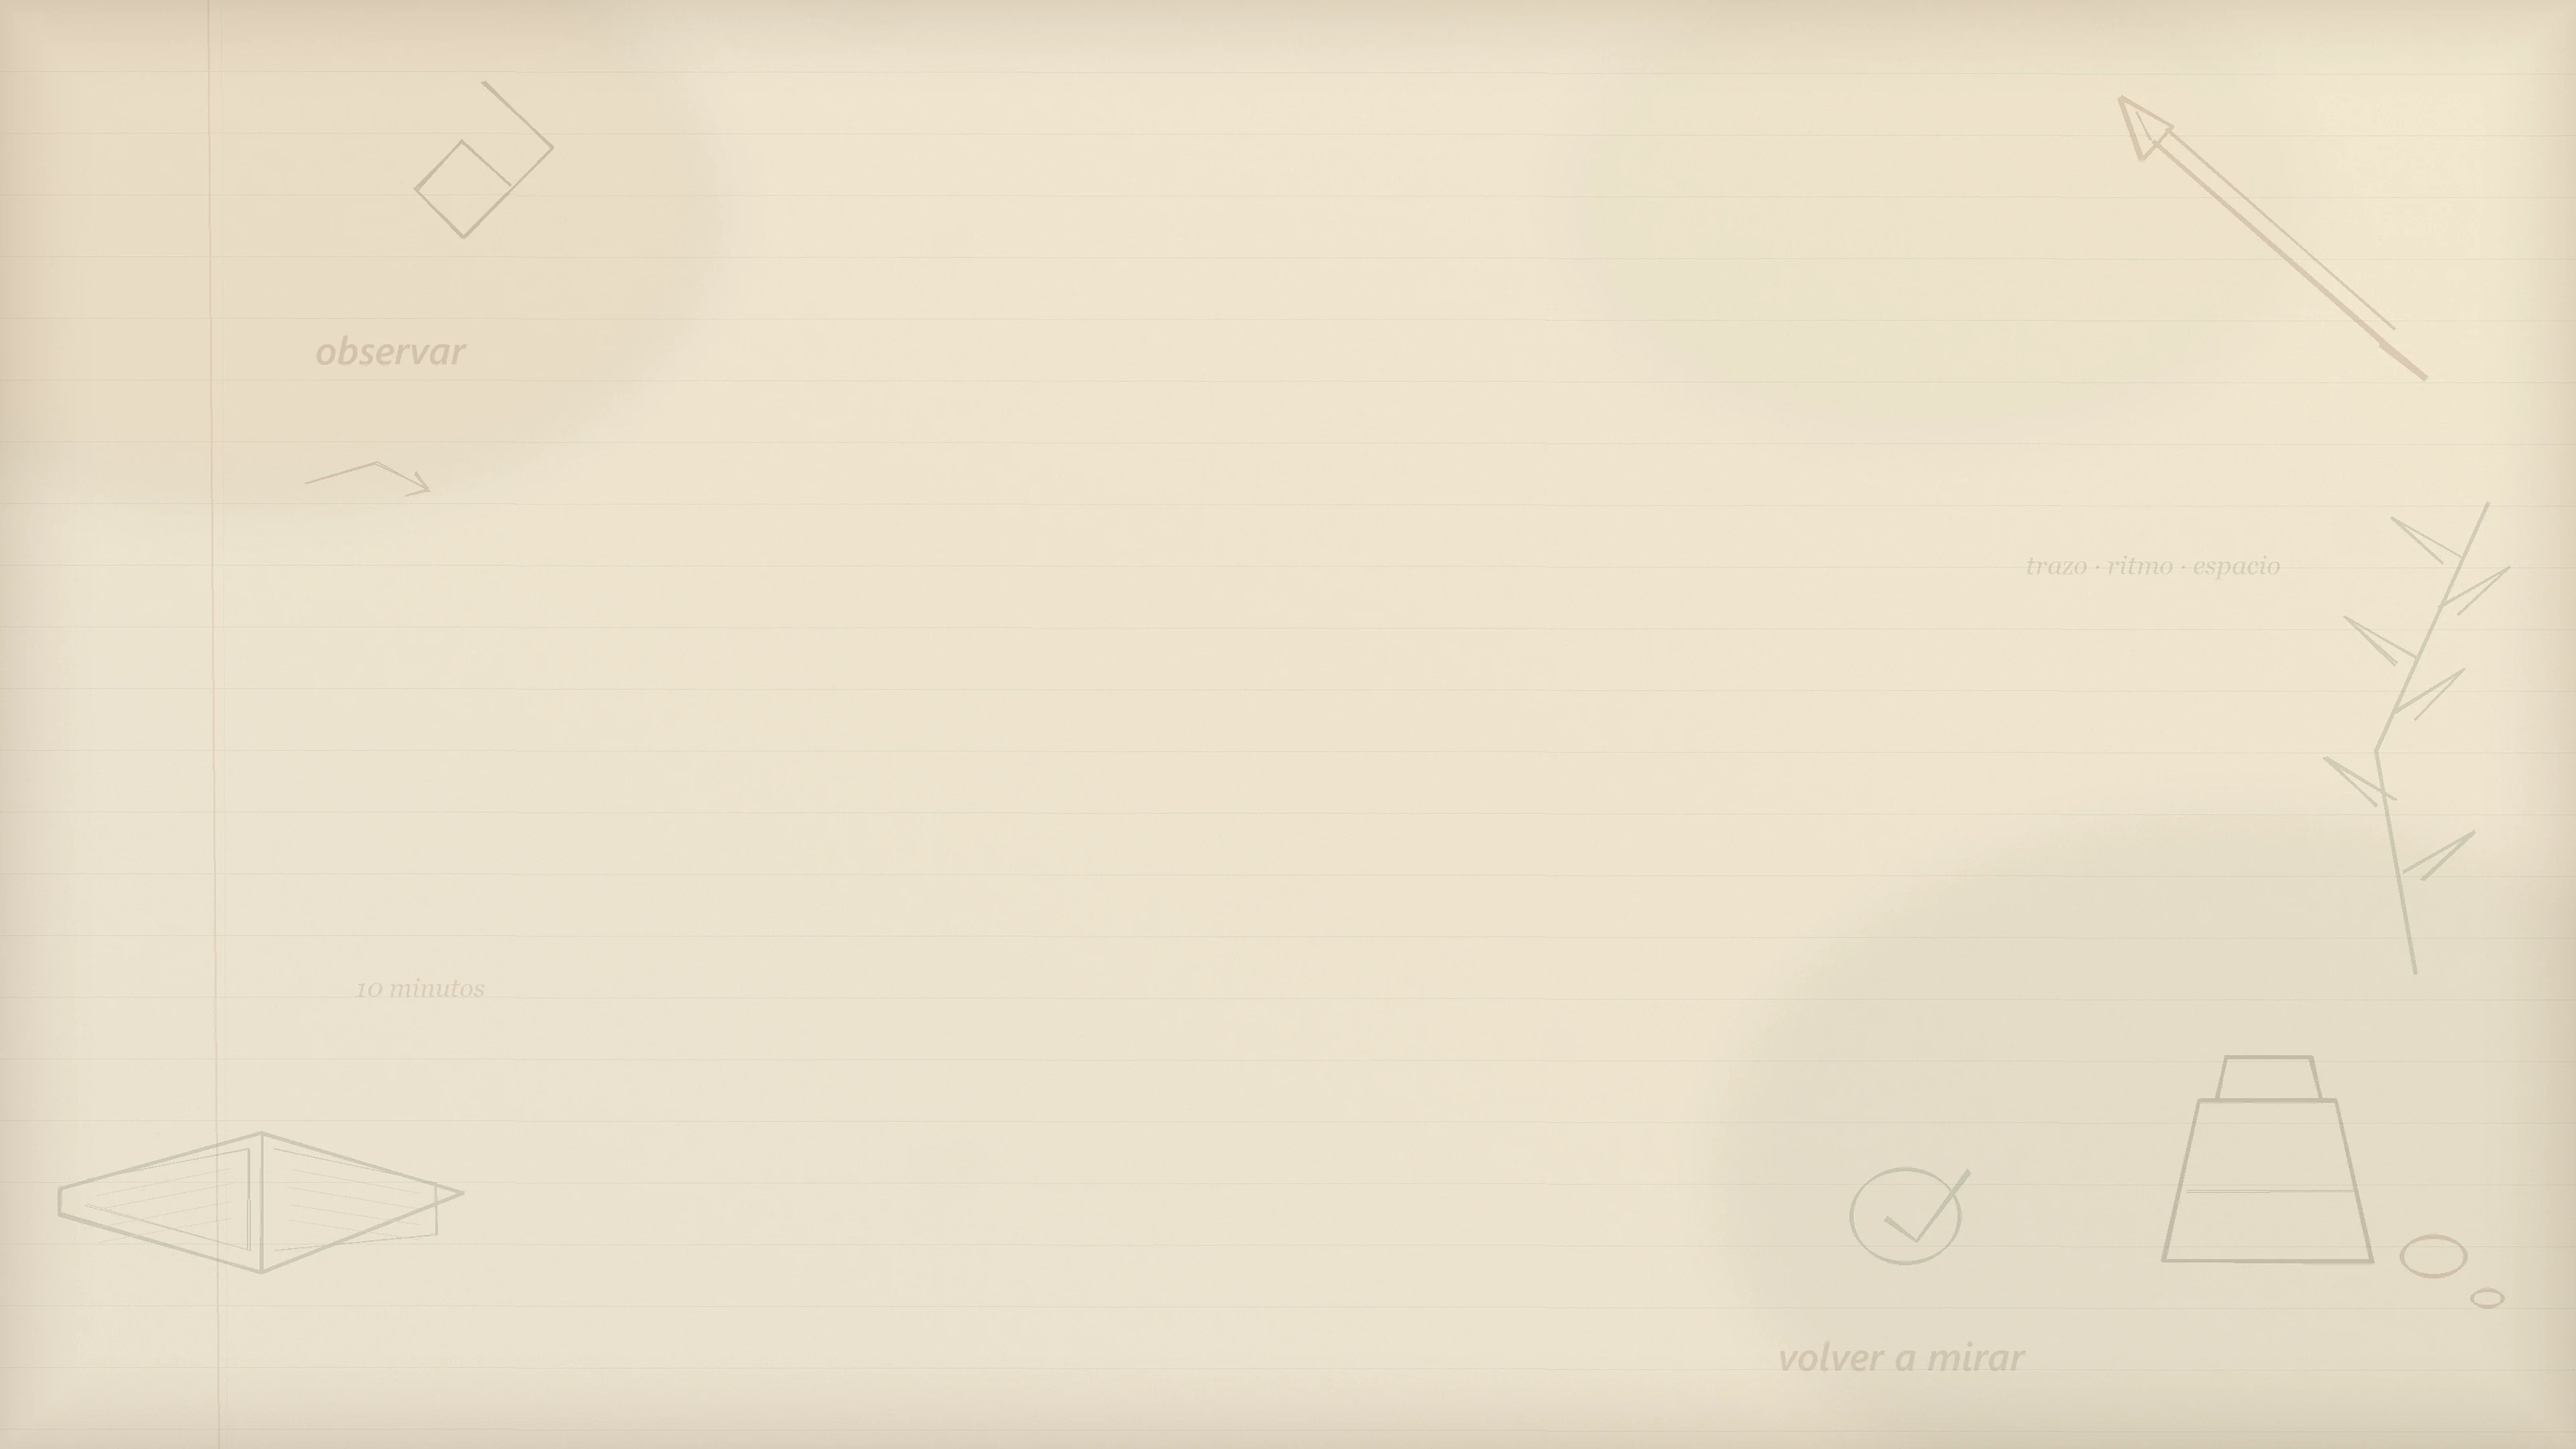
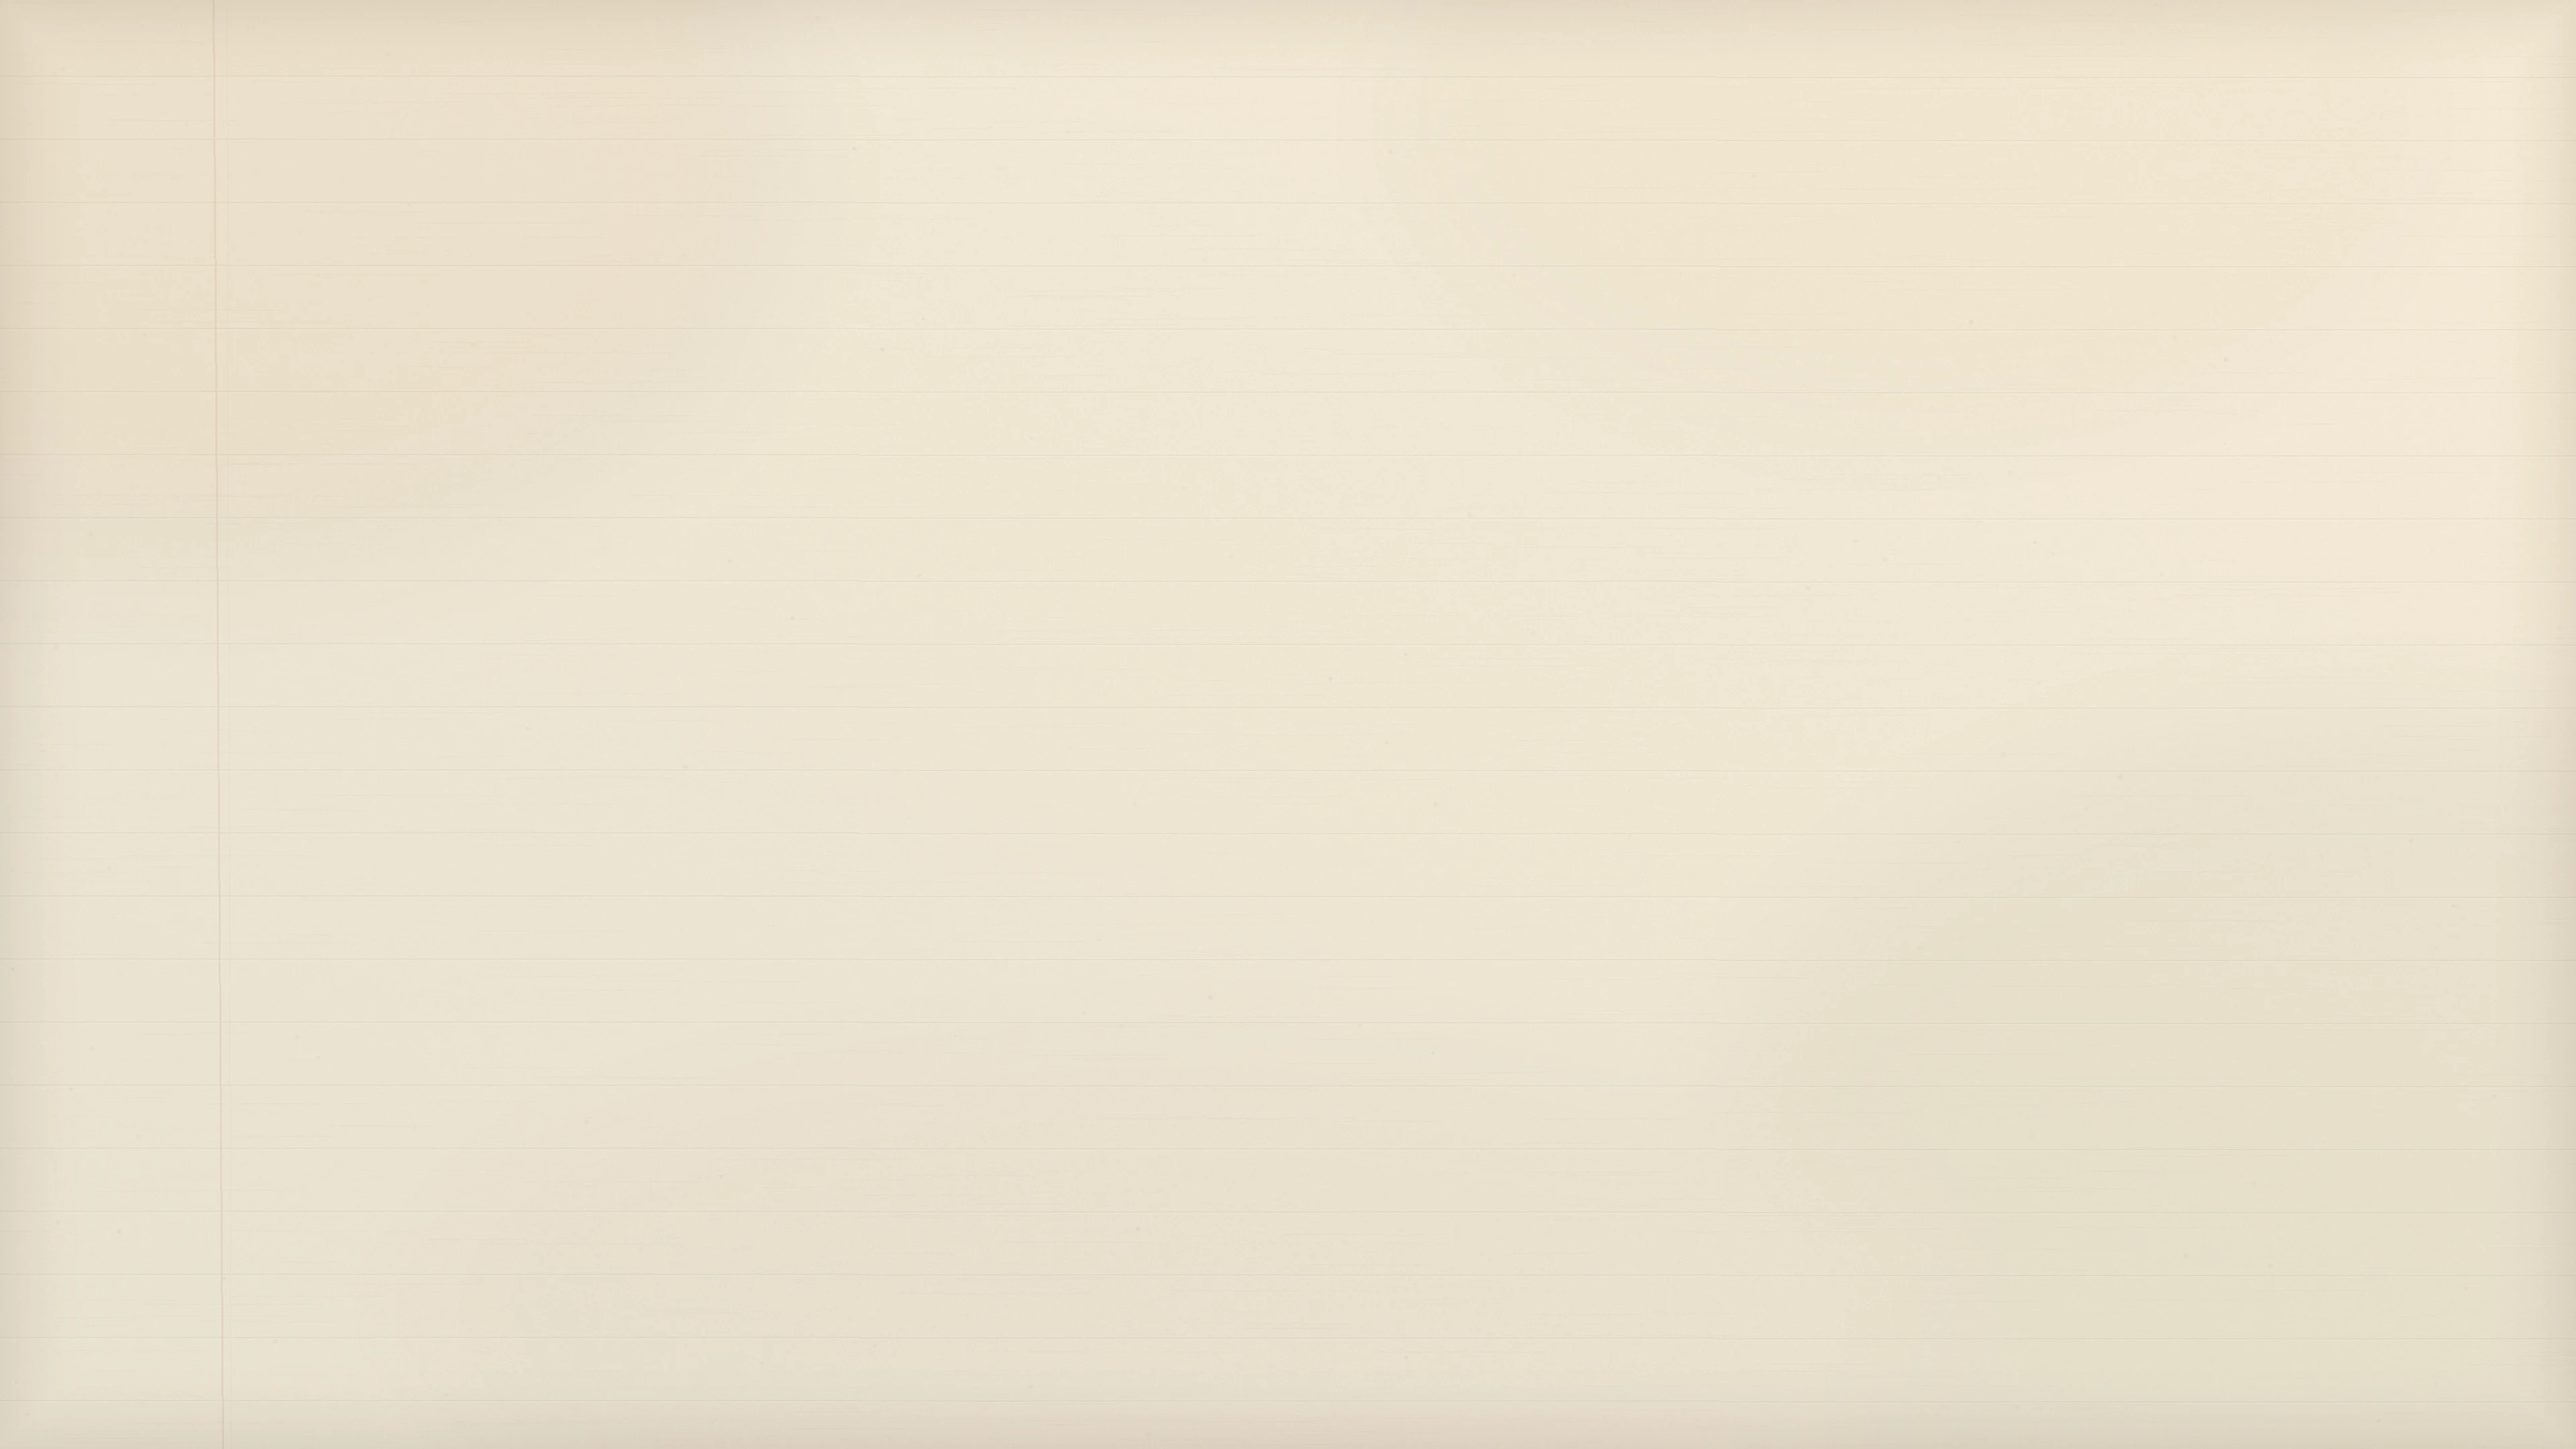
feat: dibujar el fondo de cuaderno con el scroll

diff --git a/index.html b/index.html
@@ -113,6 +113,21 @@
     }
     body::before { display: none; }
 
+    .background-sketch {
+      position: fixed; inset: 0; width: 100%; height: 100%; z-index: 0;
+      pointer-events: none; overflow: visible; opacity: .64;
+    }
+    main, footer { position: relative; z-index: 1; }
+    .background-sketch .draw {
+      stroke: #574b3b; stroke-width: 2.4; vector-effect: non-scaling-stroke;
+    }
+    .background-sketch .draw.rust { stroke: #945f3d; }
+    .background-sketch .draw.sage { stroke: #61755e; }
+    .background-sketch .draw.light { stroke-width: 1.2; opacity: .62; }
+    .background-sketch .sketch-note { font-size: 46px; opacity: .32; }
+    .js .background-sketch .draw { stroke-dasharray: 1; stroke-dashoffset: 1; }
+    .js .background-sketch .sketch-note { opacity: 0; }
+
     img { max-width: 100%; display: block; }
     a { color: inherit; text-decoration: none; }
 
@@ -539,6 +554,7 @@
       .step-card, .step-card:nth-child(n) { border-left: 0; border-top: 1px solid var(--accent-border); }
       .hero { min-height: auto; padding: 132px 20px 82px; }
       .hero::after { display: none; }
+      .background-sketch { opacity: .46; }
       .hero h1 { font-size: clamp(2.75rem, 13vw, 4rem); }
       .calligraphy-card { padding: 42px 28px; }
       .calligraphy-card blockquote { font-size: 1.4rem; }
@@ -559,10 +575,69 @@
         transition-duration: 0.01ms !important;
       }
       .js .reveal { opacity: 1; transform: none; clip-path: inset(0); filter: none; }
+      .js .background-sketch .draw { stroke-dashoffset: 0; }
+      .js .background-sketch .sketch-note { opacity: .32; }
     }
   </style>
 </head>
 <body>
+
+  <!-- Trazos vectoriales del cuaderno. Con JS se dibujan según el avance de lectura. -->
+  <svg class="background-sketch" viewBox="0 0 1920 1080" preserveAspectRatio="xMidYMid slice" aria-hidden="true">
+    <g class="sketch-ink" fill="none" stroke-linecap="round" stroke-linejoin="round" vector-effect="non-scaling-stroke">
+      <!-- Clip de papel -->
+      <path class="draw" pathLength="1" data-start="0" data-end=".12" d="M150 124c-38-45-91 9-55 45l80 80c51 51 124-24 73-75l-91-91c-29-29-76 15-47 44l76 76"/>
+      <path class="draw light" pathLength="1" data-start=".03" data-end=".15" d="M139 113c-50-45-110 24-61 73l84 84"/>
+
+      <!-- Pluma estilográfica -->
+      <path class="draw rust" pathLength="1" data-start=".08" data-end=".25" d="M1575 110l198 198 36-37-198-197z"/>
+      <path class="draw rust" pathLength="1" data-start=".12" data-end=".29" d="M1575 110l-38-53-25 75 45 44z"/>
+      <path class="draw rust" pathLength="1" data-start=".15" data-end=".31" d="M1530 88l20 20m223 200 40 39"/>
+      <path class="draw light rust" pathLength="1" data-start=".18" data-end=".34" d="M1600 102l198 198"/>
+
+      <!-- Regla con marcas -->
+      <path class="draw sage" pathLength="1" data-start=".18" data-end=".38" d="M45 474l286-93 24 73-286 93z"/>
+      <path class="draw sage" pathLength="1" data-start=".22" data-end=".40" d="M94 458l-10-29m39 19-7-22m38 12-11-31m41 20-7-22m38 11-11-30m42 19-7-22m39 11-10-29"/>
+
+      <!-- Lupa sobre letras -->
+      <path class="draw" pathLength="1" data-start=".28" data-end=".48" d="M1650 448c0-66 54-120 120-120s120 54 120 120-54 120-120 120-120-54-120-120z"/>
+      <path class="draw" pathLength="1" data-start=".34" data-end=".52" d="M1685 533l-106 107c-20 20 11 52 32 31l106-107"/>
+      <path class="draw light" pathLength="1" data-start=".38" data-end=".53" d="M1680 414c18-34 52-54 90-54"/>
+      <path class="draw rust" pathLength="1" data-start=".40" data-end=".55" d="M1721 477c18-58 28-58 46 0m-35-23h24m36 23v-69m0 47 31-34m-22 25 26 31"/>
+
+      <!-- Sobre y carta -->
+      <path class="draw rust" pathLength="1" data-start=".42" data-end=".62" d="M80 720l266-22 14 168-266 22z"/>
+      <path class="draw rust" pathLength="1" data-start=".46" data-end=".64" d="M82 720l140 92 124-114m-252 190 104-90m162 68-111-72"/>
+      <path class="draw light rust" pathLength="1" data-start=".50" data-end=".66" d="M120 680l186-15 5 39"/>
+
+      <!-- Rama y hojas -->
+      <path class="draw sage" pathLength="1" data-start=".52" data-end=".78" d="M1810 660c-92 92-131 201-145 337"/>
+      <path class="draw sage" pathLength="1" data-start=".56" data-end=".72" d="M1780 699c-64-5-95 20-112 69 58 2 91-20 112-69zm-54 88c54-5 85 17 103 59-51 5-83-14-103-59zm-28 82c-54 1-82 25-95 68 51 0 80-21 95-68zm-15 66c45-2 72 17 88 52-43 4-70-13-88-52z"/>
+      <path class="draw light sage" pathLength="1" data-start=".64" data-end=".80" d="M1684 752l75-42m-53 100 92 26m-111 68-61 20m51 36 68 19"/>
+
+      <!-- Tintero -->
+      <path class="draw" pathLength="1" data-start=".64" data-end=".83" d="M1428 827h116l31 153h-178z"/>
+      <path class="draw" pathLength="1" data-start=".68" data-end=".84" d="M1448 786h76l13 41h-102z"/>
+      <path class="draw light" pathLength="1" data-start=".72" data-end=".86" d="M1410 925c48-17 103 16 151-3"/>
+      <path class="draw rust" pathLength="1" data-start=".76" data-end=".88" d="M1582 972c24-12 47 12 28 31-20 19-52-11-28-31zm54 35c14-7 28 8 17 19-12 11-31-7-17-19z"/>
+
+      <!-- Libro abierto -->
+      <path class="draw sage" pathLength="1" data-start=".72" data-end=".92" d="M364 887c94-39 183-20 245 34 61-54 151-73 244-34v153c-91-35-177-18-244 31-68-49-153-66-245-31z"/>
+      <path class="draw sage" pathLength="1" data-start=".76" data-end=".94" d="M609 921v150m-215-146c70-21 136-5 183 25m-183 28c70-20 136-4 183 26m246-79c-70-21-136-5-183 25m183 28c-70-20-136-4-183 26"/>
+      <path class="draw light sage" pathLength="1" data-start=".82" data-end=".96" d="M344 907v154c101-28 190-10 265 40 74-50 164-68 264-40V907"/>
+
+      <!-- Flechas, subrayados y gesto final -->
+      <path class="draw rust" pathLength="1" data-start=".20" data-end=".38" d="M455 246c91-33 181-30 267-5m-20-18 20 18-27 9"/>
+      <path class="draw sage" pathLength="1" data-start=".44" data-end=".62" d="M1180 584c95 22 172 12 244-23"/>
+      <path class="draw" pathLength="1" data-start=".86" data-end="1" d="M916 1006c144-30 287-23 428 18 66 19 114 4 142-28-13 45 12 69 74 71"/>
+    </g>
+    <g class="sketch-notes" font-family="'Pinyon Script', cursive" fill="#684029">
+      <text class="sketch-note" data-start=".10" data-end=".24" x="390" y="160" transform="rotate(-5 390 160)">observar</text>
+      <text class="sketch-note" data-start=".31" data-end=".46" x="1480" y="395" transform="rotate(4 1480 395)">trazo · ritmo · espacio</text>
+      <text class="sketch-note" data-start=".50" data-end=".66" x="490" y="700" transform="rotate(-3 490 700)">practicar</text>
+      <text class="sketch-note" data-start=".78" data-end=".94" x="1040" y="970" transform="rotate(3 1040 970)">volver a mirar</text>
+    </g>
+  </svg>
 
   <a href="#contenido" class="skip-link">Saltar al contenido</a>
 
@@ -836,18 +911,41 @@
     const navbar    = document.getElementById('navbar');
     const navLinks  = document.getElementById('navLinks');
     const hamburger = document.getElementById('hamburger');
+    const backgroundStrokes = [...document.querySelectorAll('.background-sketch .draw')];
+    const backgroundNotes = [...document.querySelectorAll('.background-sketch .sketch-note')];
+    const reduceMotion = window.matchMedia('(prefers-reduced-motion: reduce)');
 
-    // Fondo del nav al bajar. passive: le avisa al navegador que no vamos a
-    // frenar el scroll, asi no espera al handler para dibujar.
+    function stageProgress(element, pageProgress) {
+      const start = Number(element.dataset.start || 0);
+      const end = Number(element.dataset.end || 1);
+      return Math.max(0, Math.min(1, (pageProgress - start) / (end - start)));
+    }
+
+    function drawNotebookBackground() {
+      const available = Math.max(1, document.documentElement.scrollHeight - window.innerHeight);
+      const pageProgress = reduceMotion.matches ? 1 : Math.min(1, window.scrollY / available);
+      backgroundStrokes.forEach(path => {
+        path.style.strokeDashoffset = String(1 - stageProgress(path, pageProgress));
+      });
+      backgroundNotes.forEach(note => {
+        note.style.opacity = String(stageProgress(note, pageProgress) * 0.32);
+      });
+    }
+
+    // Fondo del nav y dibujos del cuaderno: un solo frame por evento de scroll.
     let ticking = false;
     window.addEventListener('scroll', () => {
       if (ticking) return;
       ticking = true;
       requestAnimationFrame(() => {
         navbar.classList.toggle('scrolled', window.scrollY > 50);
+        drawNotebookBackground();
         ticking = false;
       });
     }, { passive: true });
+    window.addEventListener('resize', drawNotebookBackground, { passive: true });
+    reduceMotion.addEventListener('change', drawNotebookBackground);
+    drawNotebookBackground();
 
     // --- Menu movil ---
     function setMenu(open) {
